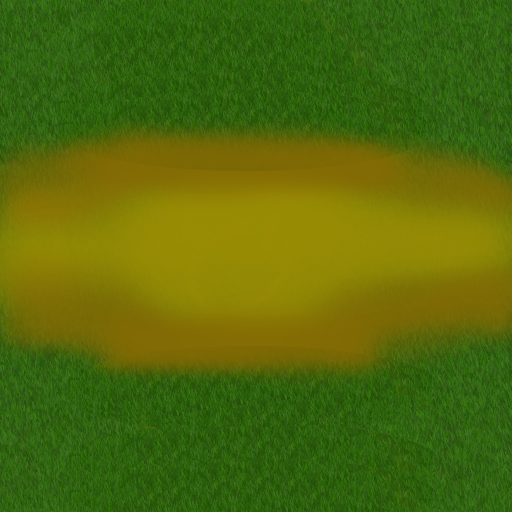
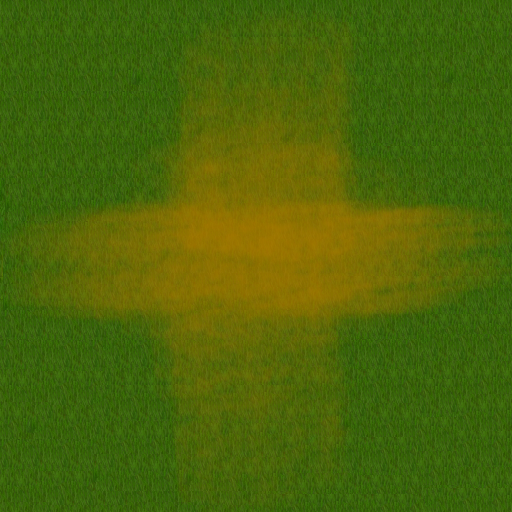
changed ground texture; implemented basic shot; osx messes up some visual effects

diff --git a/grid.py b/grid.py
@@ -33,16 +33,16 @@ def main():
     wallGroup = [] 
     bgGroup = []
     connGroup = []
+    shotGroup = []
     message = Message()
     create_level(levels.levels[mapX][mapY], bgGroup, wallGroup, player, connGroup)
     
     GAMERUNNING = True
-    LOOP = 1
     while GAMERUNNING == True:
         pygame.display.set_caption(str(player.x) + ":" + str(player.y) + "\t" + str(mapX) + ":" + str(mapY)) 
         #DISPLAYSURF.fill((0, 255, 0))
         draw_level(bgGroup, bg_images)
-        getInput(player, message)
+        getInput(player, message, shotGroup)
         player.update(wallGroup, connGroup, bgGroup, message)
         badguy.update(wallGroup)
         NEXTMOVE = 0 
@@ -50,28 +50,66 @@ def main():
         player.draw()
         #drawBlackBrick(100, 200)
         #drawGrid()    
+        for shot in shotGroup:
+            shot.update()
+            shot.draw()
         drawHearts(player)
         message.draw(basicfont)
         pygame.display.update()
-        LOOP += 1
-        if LOOP > 60: brickClearScreen()
         FPSCLOCK.tick(FPS)
 
 #def drawBlackBrick():
 #    pygame.draw.rect(DISPLAYSURF, (0, 0, 0), (x, y, 30, 10))
 
 def brickClearScreen():
+    # this doesn't work on OSX :(
     global DISPLAYSURF
     width = 30
     height = 10
     DISPLAYSURF.fill((255, 255, 255))
     pygame.display.update()
-    print "cleared"
     for x in range(0, SCREENWIDTH, width):
         for y in range(0, SCREENHEIGHT, height):
-            print x, y
             pygame.draw.rect(DISPLAYSURF, (0, 0, 0), (x, y, width, height))
             pygame.display.update()
+
+class Shot():
+    def __init__(self, player):
+        self.shot_img = pygame.image.load('shot.png')
+        self.shot_img = pygame.transform.scale(self.shot_img, (CELLSIZE, CELLSIZE))
+        self.shot_img_up = pygame.transform.rotate(self.shot_img, -90)
+        self.shot_img_down = pygame.transform.rotate(self.shot_img, 90)
+        self.shot_img_right = pygame.transform.flip(self.shot_img, 1, 0)
+        self.facing = player.facing
+        self.speed = 30
+        self.x = player.x * CELLSIZE
+        self.y = player.y * CELLSIZE
+       
+    def update(self):
+        if self.facing == 1 and self.y <= SCREENHEIGHT:
+            self.y += self.speed
+        elif self.facing == 3 and self.y > 0:
+            self.y -= self.speed
+        elif self.facing == 0 and self.x <= SCREENWIDTH:
+            self.x += self.speed
+        elif self.facing == 2 and self.x > 0:
+            self.x -= self.speed
+             
+    def draw(self): 
+        if self.facing == 1: self.shot_img = self.shot_img_down
+        if self.facing == 0: self.shot_img = self.shot_img_right
+        if self.facing == 3: self.shot_img = self.shot_img_up
+        DISPLAYSURF.blit(self.shot_img, (self.x, self.y))
+
+
+class Boss():
+    def __init__(self):
+        pass
+       
+    def update():
+        pass 
+    def draw(): 
+        pass 
 
 class Message():
     def __init__(self):
@@ -141,14 +179,15 @@ def drawGrid():
         pygame.draw.line(DISPLAYSURF, (100, 100, 100), (0, y), (SCREENWIDTH, y))
 
 
-def getInput(player, message):
+def getInput(player, message, shotGroup):
 
     for event in pygame.event.get():
         if event.type == pygame.KEYUP and event.key == pygame.K_SPACE:
             message.clear()
+            shot = Shot(player)
+            shotGroup.append(shot)
         if event.type == pygame.KEYUP and event.key == pygame.K_z:
-       #     message.update("This is a dangerous place!")
-            brickClearScreen()
+            message.update("This is a dangerous place!")
         if event.type == pygame.KEYUP and event.key == pygame.K_q:
             pygame.quit()
             sys.exit()
